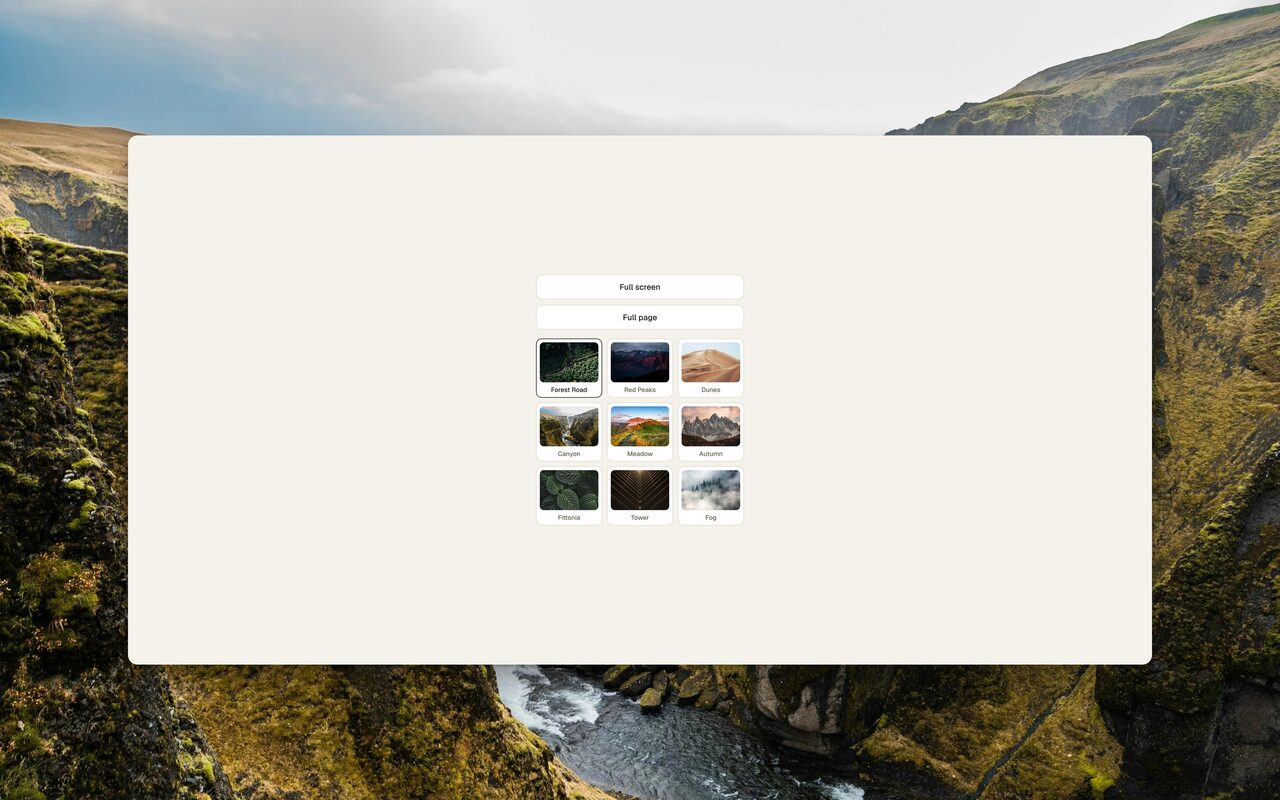
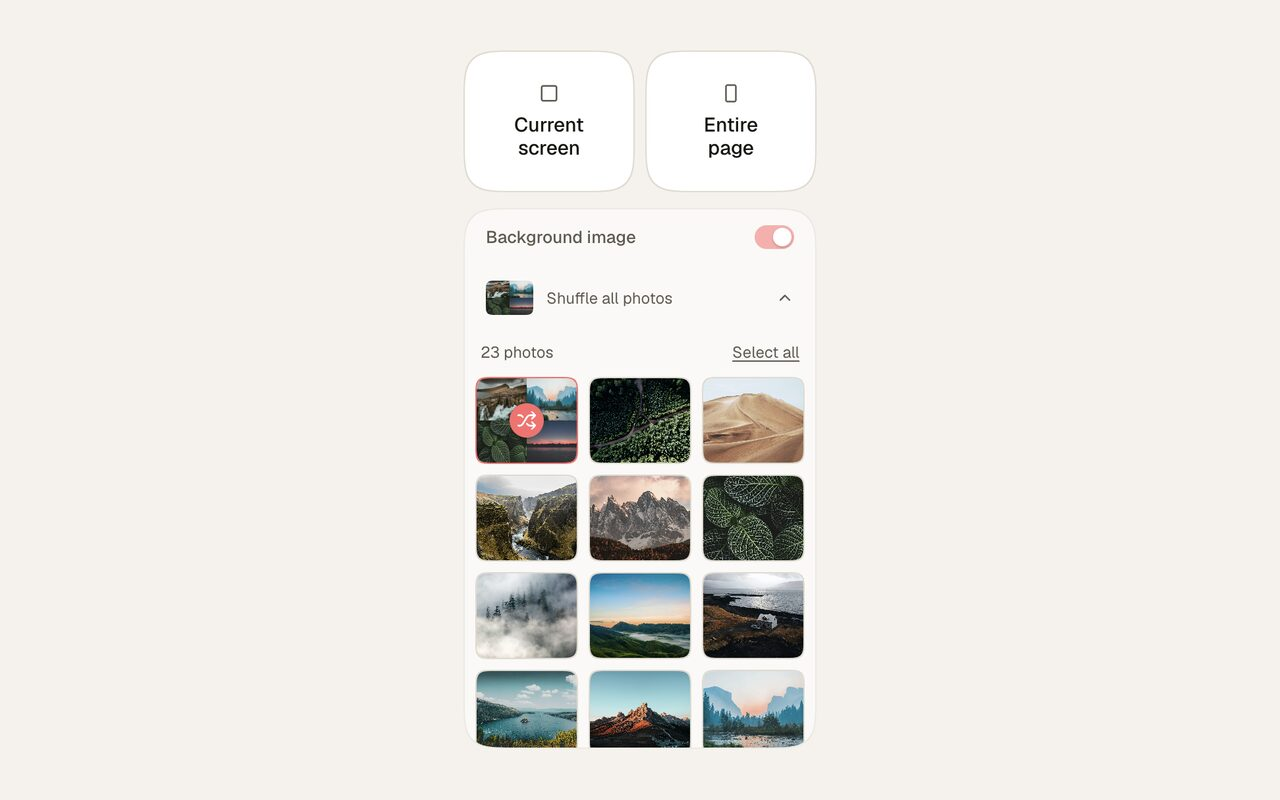
docs: update README.md and screenshots for popup clarity
- Revised the alt text for the popup image in README.md to better describe the current functionality.
- Updated binary screenshot files to reflect recent changes in the popup interface.

diff --git a/README.md b/README.md
@@ -9,7 +9,7 @@
 [Install from the Chrome Web Store](https://chromewebstore.google.com/detail/backdrop-%E2%80%94-screenshots-wo/omeobpnjkmohdoeikgpfnfiipemidflk)
 
 <p align="center">
-  <img src="screenshots/popup.png" alt="The toolbar popup: Full screen, Full page, and a 3×3 grid of background photo toggles with Forest Road selected" width="296" />
+  <img src="screenshots/popup.png" alt="The toolbar popup: Current screen, Entire page, and the background picker open on Shuffle all" width="296" />
 </p>
 
 ## Install (unpacked)
